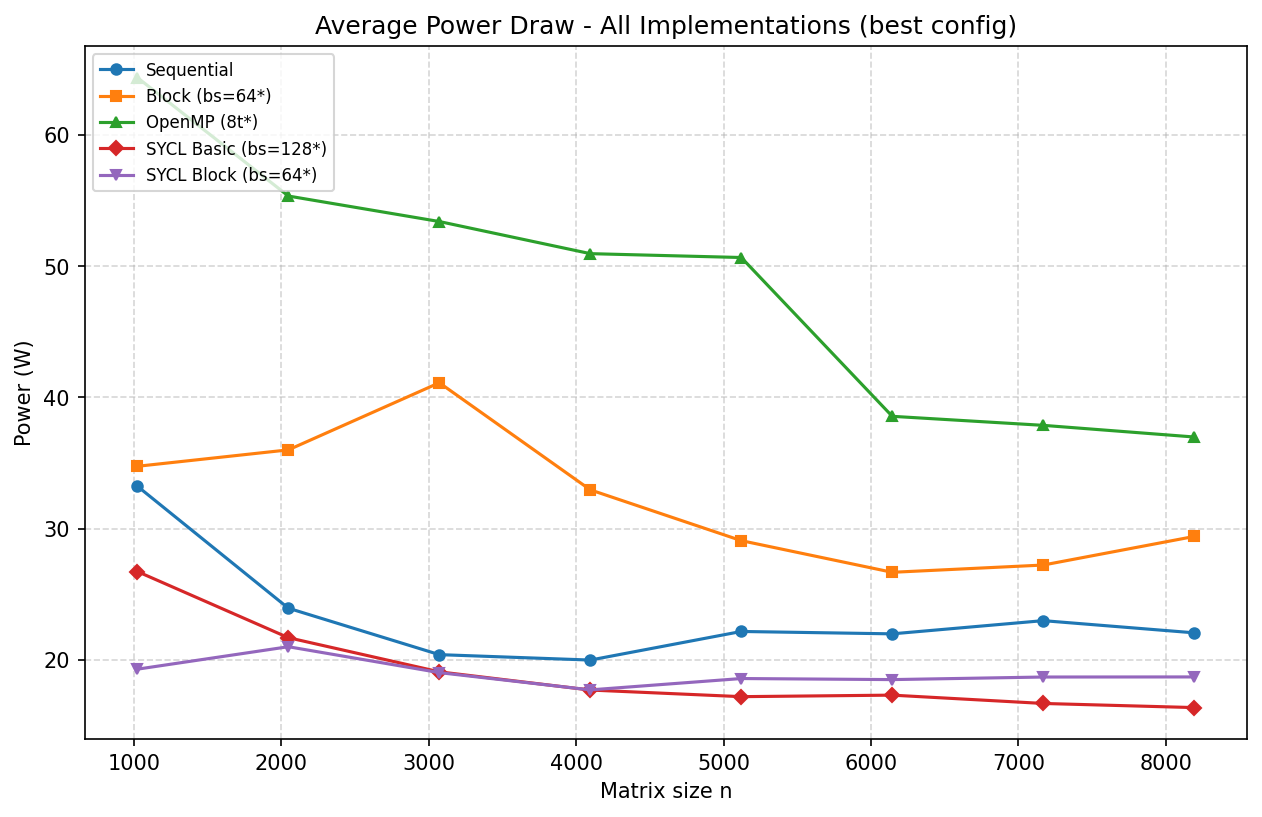
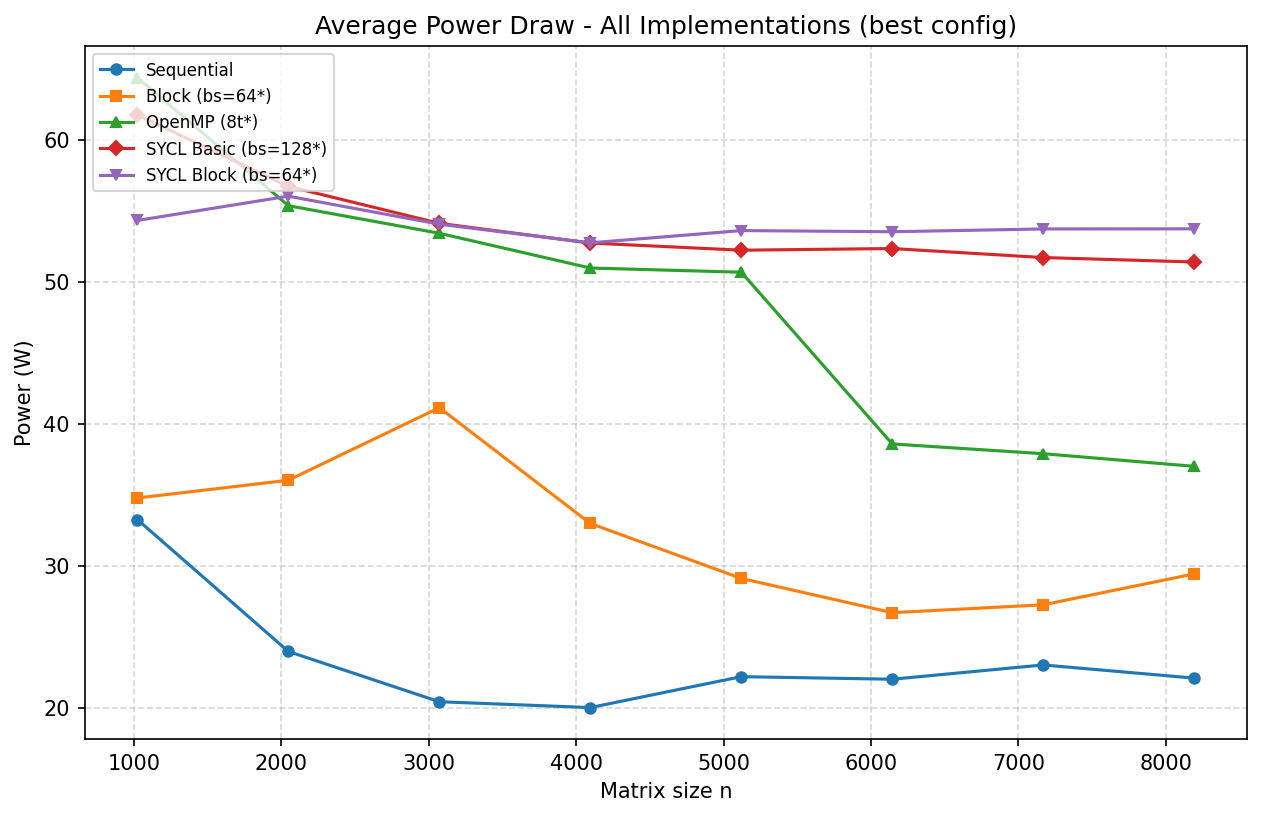
Added extra power usage for GPU

diff --git a/scripts/plots.py b/scripts/plots.py
@@ -17,6 +17,9 @@ IMPL_LABELS = {
 
 SYCL_IMPLS = ["sycl_basic", "sycl_block"]
 
+# Adjust to your GPU's measured max power draw (watts)
+GPU_POWER_W = 35
+
 
 # Helper functions to load data and return as dataframe
 def load_data(csv_path):
@@ -35,6 +38,15 @@ def save_fig(fig, name):
     fig.savefig(path, dpi=150, bbox_inches="tight")
     plt.close(fig)
     print(f"Saved {path}")
+
+
+def add_gpu_power(df):
+    """Add GPU_POWER_W to watts_avg and GPU_POWER_W*time_s_avg to joules_avg for SYCL rows."""
+    df = df.copy()
+    mask = df["implementation"].isin(SYCL_IMPLS)
+    df.loc[mask, "watts_avg"] = df.loc[mask, "watts_avg"] + GPU_POWER_W
+    df.loc[mask, "joules_avg"] = df.loc[mask, "joules_avg"] + GPU_POWER_W * df.loc[mask, "time_s_avg"]
+    return df
 
 
 # Add speedup_seq = sequential_time / impl_time for all rows (including block/sycl).
@@ -354,11 +366,12 @@ def main():
 
     df = load_data(args.in_path)
     df = add_speedup_seq(df)
+    df_power = add_gpu_power(df)
 
     plot_runtime(df)
     plot_speedup(df)
-    plot_wattage(df)
-    plot_energy(df)
+    plot_wattage(df_power)
+    plot_energy(df_power)
     plot_gflops(df)
     plot_openmp_efficiency(df)
     plot_sycl_efficiency(df)
